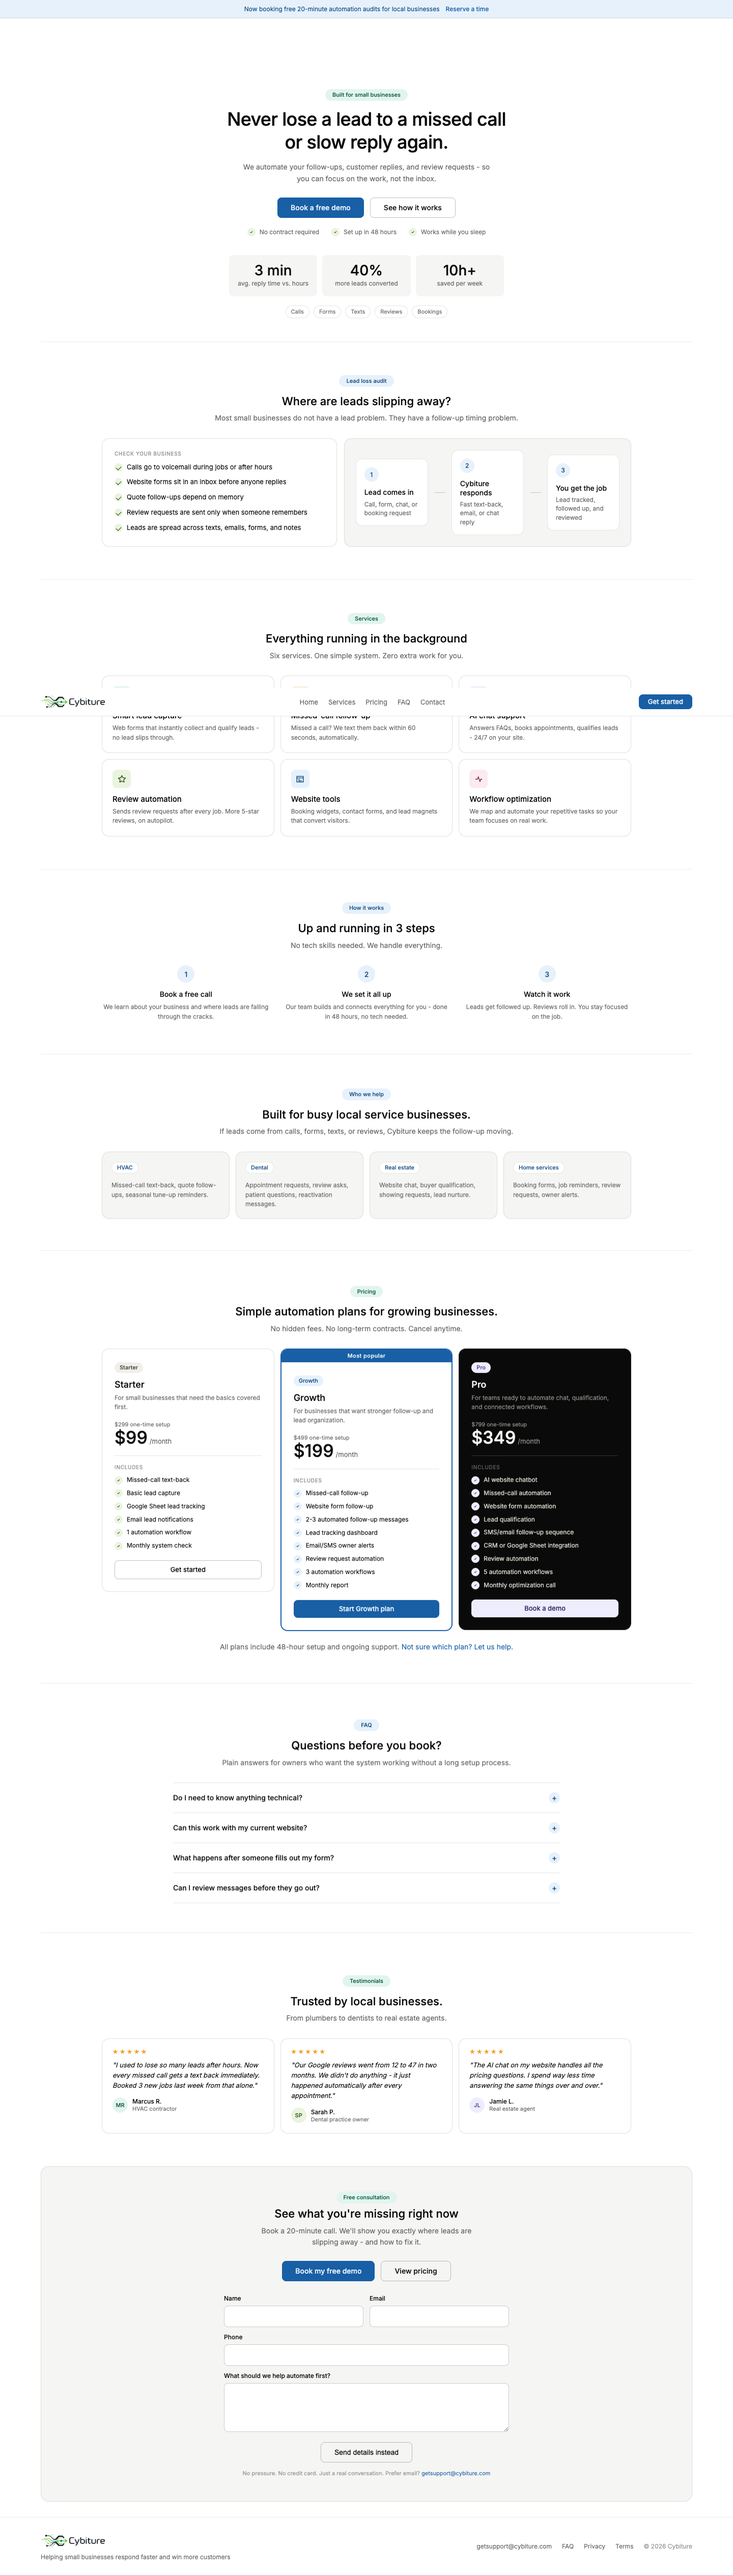
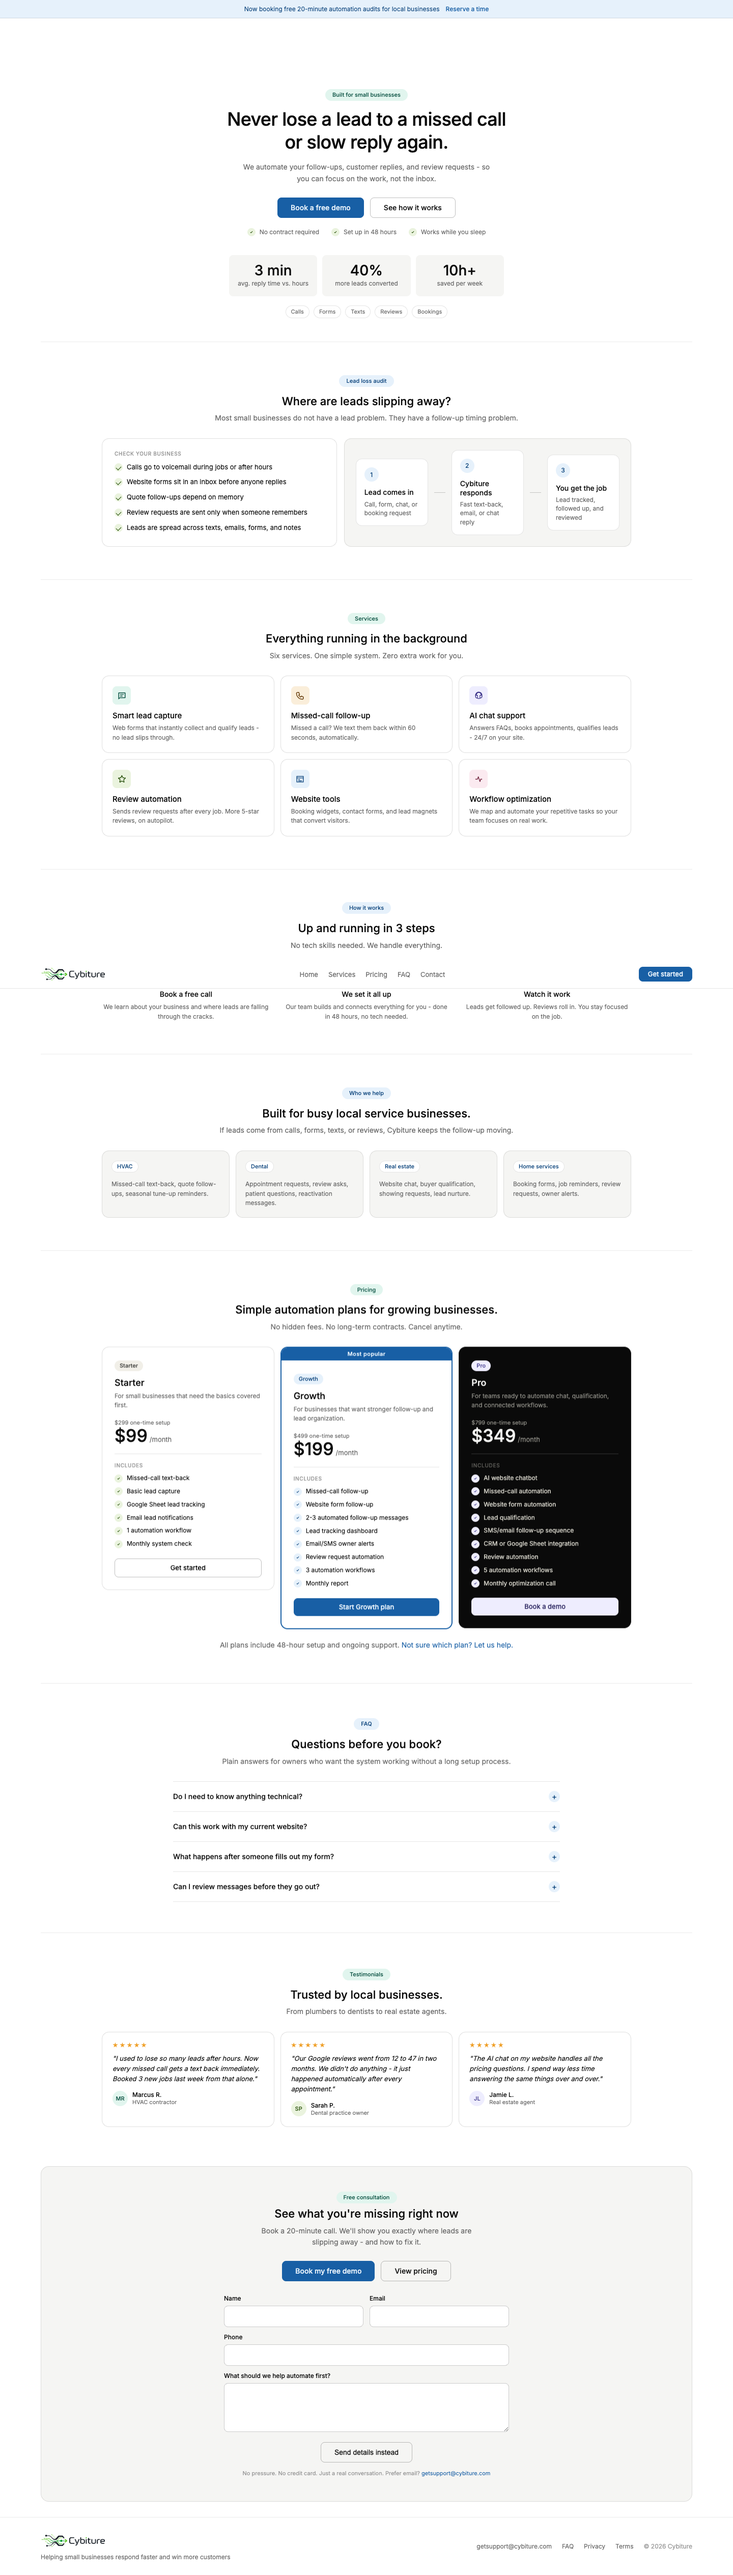
update v3

diff --git a/ai-chat-support.html b/ai-chat-support.html
@@ -9,6 +9,22 @@
     <link rel="stylesheet" href="styles.css" />
       <link rel="icon" type="image/png" href="assets/favicon.png" />
     <link rel="apple-touch-icon" href="assets/favicon.png" />
+      <meta name="google-site-verification" content="50VWgKmeZrNLoH3f2TRV3bXLgcHGHYDisSirxOGul20" />
+    <!-- Google tag (gtag.js) -->
+    <script async src="https://www.googletagmanager.com/gtag/js?id=G-Q48Q4N22XZ"></script>
+    <script>
+      window.dataLayer = window.dataLayer || [];
+      function gtag(){dataLayer.push(arguments);}
+      gtag("js", new Date());
+      gtag("config", "G-Q48Q4N22XZ");
+    </script>
+    <script type="text/javascript">
+      (function(c,l,a,r,i,t,y){
+        c[a]=c[a]||function(){(c[a].q=c[a].q||[]).push(arguments)};
+        t=l.createElement(r);t.async=1;t.src="https://www.clarity.ms/tag/"+i;
+        y=l.getElementsByTagName(r)[0];y.parentNode.insertBefore(t,y);
+      })(window, document, "clarity", "script", "wl59if4qy4");
+    </script>
   </head>
   <body>
     <header class="site-header"><a class="brand" href="/"><img class="brand-logo" src="assets/cybiture-logo-cropped.png" alt="Cybiture" /></a><nav class="site-nav"><a href="/">Home</a><a href="/services.html">Services</a><a href="/pricing.html">Pricing</a><a href="/faq.html">FAQ</a><a href="/contact.html">Contact</a></nav><a class="button nav-cta" href="/contact.html">Get started</a></header>

diff --git a/review-automation.html b/review-automation.html
@@ -9,6 +9,22 @@
     <link rel="stylesheet" href="styles.css" />
       <link rel="icon" type="image/png" href="assets/favicon.png" />
     <link rel="apple-touch-icon" href="assets/favicon.png" />
+      <meta name="google-site-verification" content="50VWgKmeZrNLoH3f2TRV3bXLgcHGHYDisSirxOGul20" />
+    <!-- Google tag (gtag.js) -->
+    <script async src="https://www.googletagmanager.com/gtag/js?id=G-Q48Q4N22XZ"></script>
+    <script>
+      window.dataLayer = window.dataLayer || [];
+      function gtag(){dataLayer.push(arguments);}
+      gtag("js", new Date());
+      gtag("config", "G-Q48Q4N22XZ");
+    </script>
+    <script type="text/javascript">
+      (function(c,l,a,r,i,t,y){
+        c[a]=c[a]||function(){(c[a].q=c[a].q||[]).push(arguments)};
+        t=l.createElement(r);t.async=1;t.src="https://www.clarity.ms/tag/"+i;
+        y=l.getElementsByTagName(r)[0];y.parentNode.insertBefore(t,y);
+      })(window, document, "clarity", "script", "wl59if4qy4");
+    </script>
   </head>
   <body>
     <header class="site-header"><a class="brand" href="/"><img class="brand-logo" src="assets/cybiture-logo-cropped.png" alt="Cybiture" /></a><nav class="site-nav"><a href="/">Home</a><a href="/services.html">Services</a><a href="/pricing.html">Pricing</a><a href="/faq.html">FAQ</a><a href="/contact.html">Contact</a></nav><a class="button nav-cta" href="/contact.html">Get started</a></header>

diff --git a/thank-you.html b/thank-you.html
@@ -19,6 +19,22 @@
     <link rel="stylesheet" href="styles.css" />
       <link rel="icon" type="image/png" href="assets/favicon.png" />
     <link rel="apple-touch-icon" href="assets/favicon.png" />
+      <meta name="google-site-verification" content="50VWgKmeZrNLoH3f2TRV3bXLgcHGHYDisSirxOGul20" />
+    <!-- Google tag (gtag.js) -->
+    <script async src="https://www.googletagmanager.com/gtag/js?id=G-Q48Q4N22XZ"></script>
+    <script>
+      window.dataLayer = window.dataLayer || [];
+      function gtag(){dataLayer.push(arguments);}
+      gtag("js", new Date());
+      gtag("config", "G-Q48Q4N22XZ");
+    </script>
+    <script type="text/javascript">
+      (function(c,l,a,r,i,t,y){
+        c[a]=c[a]||function(){(c[a].q=c[a].q||[]).push(arguments)};
+        t=l.createElement(r);t.async=1;t.src="https://www.clarity.ms/tag/"+i;
+        y=l.getElementsByTagName(r)[0];y.parentNode.insertBefore(t,y);
+      })(window, document, "clarity", "script", "wl59if4qy4");
+    </script>
   </head>
   <body class="thank-you-page">
     <header class="site-header">

diff --git a/index.html b/index.html
@@ -29,6 +29,22 @@
     <link rel="stylesheet" href="styles.css" />
       <link rel="icon" type="image/png" href="assets/favicon.png" />
     <link rel="apple-touch-icon" href="assets/favicon.png" />
+      <meta name="google-site-verification" content="50VWgKmeZrNLoH3f2TRV3bXLgcHGHYDisSirxOGul20" />
+    <!-- Google tag (gtag.js) -->
+    <script async src="https://www.googletagmanager.com/gtag/js?id=G-Q48Q4N22XZ"></script>
+    <script>
+      window.dataLayer = window.dataLayer || [];
+      function gtag(){dataLayer.push(arguments);}
+      gtag("js", new Date());
+      gtag("config", "G-Q48Q4N22XZ");
+    </script>
+    <script type="text/javascript">
+      (function(c,l,a,r,i,t,y){
+        c[a]=c[a]||function(){(c[a].q=c[a].q||[]).push(arguments)};
+        t=l.createElement(r);t.async=1;t.src="https://www.clarity.ms/tag/"+i;
+        y=l.getElementsByTagName(r)[0];y.parentNode.insertBefore(t,y);
+      })(window, document, "clarity", "script", "wl59if4qy4");
+    </script>
   </head>
   <body>
     <div class="announcement-bar">

diff --git a/contact.html b/contact.html
@@ -13,6 +13,22 @@
     <link rel="stylesheet" href="styles.css" />
       <link rel="icon" type="image/png" href="assets/favicon.png" />
     <link rel="apple-touch-icon" href="assets/favicon.png" />
+      <meta name="google-site-verification" content="50VWgKmeZrNLoH3f2TRV3bXLgcHGHYDisSirxOGul20" />
+    <!-- Google tag (gtag.js) -->
+    <script async src="https://www.googletagmanager.com/gtag/js?id=G-Q48Q4N22XZ"></script>
+    <script>
+      window.dataLayer = window.dataLayer || [];
+      function gtag(){dataLayer.push(arguments);}
+      gtag("js", new Date());
+      gtag("config", "G-Q48Q4N22XZ");
+    </script>
+    <script type="text/javascript">
+      (function(c,l,a,r,i,t,y){
+        c[a]=c[a]||function(){(c[a].q=c[a].q||[]).push(arguments)};
+        t=l.createElement(r);t.async=1;t.src="https://www.clarity.ms/tag/"+i;
+        y=l.getElementsByTagName(r)[0];y.parentNode.insertBefore(t,y);
+      })(window, document, "clarity", "script", "wl59if4qy4");
+    </script>
   </head>
   <body>
     <header class="site-header">

diff --git a/missed-call-follow-up.html b/missed-call-follow-up.html
@@ -12,6 +12,22 @@
     <link rel="stylesheet" href="styles.css" />
       <link rel="icon" type="image/png" href="assets/favicon.png" />
     <link rel="apple-touch-icon" href="assets/favicon.png" />
+      <meta name="google-site-verification" content="50VWgKmeZrNLoH3f2TRV3bXLgcHGHYDisSirxOGul20" />
+    <!-- Google tag (gtag.js) -->
+    <script async src="https://www.googletagmanager.com/gtag/js?id=G-Q48Q4N22XZ"></script>
+    <script>
+      window.dataLayer = window.dataLayer || [];
+      function gtag(){dataLayer.push(arguments);}
+      gtag("js", new Date());
+      gtag("config", "G-Q48Q4N22XZ");
+    </script>
+    <script type="text/javascript">
+      (function(c,l,a,r,i,t,y){
+        c[a]=c[a]||function(){(c[a].q=c[a].q||[]).push(arguments)};
+        t=l.createElement(r);t.async=1;t.src="https://www.clarity.ms/tag/"+i;
+        y=l.getElementsByTagName(r)[0];y.parentNode.insertBefore(t,y);
+      })(window, document, "clarity", "script", "wl59if4qy4");
+    </script>
   </head>
   <body>
     <header class="site-header">

diff --git a/pricing.html b/pricing.html
@@ -13,6 +13,22 @@
     <link rel="stylesheet" href="styles.css" />
       <link rel="icon" type="image/png" href="assets/favicon.png" />
     <link rel="apple-touch-icon" href="assets/favicon.png" />
+      <meta name="google-site-verification" content="50VWgKmeZrNLoH3f2TRV3bXLgcHGHYDisSirxOGul20" />
+    <!-- Google tag (gtag.js) -->
+    <script async src="https://www.googletagmanager.com/gtag/js?id=G-Q48Q4N22XZ"></script>
+    <script>
+      window.dataLayer = window.dataLayer || [];
+      function gtag(){dataLayer.push(arguments);}
+      gtag("js", new Date());
+      gtag("config", "G-Q48Q4N22XZ");
+    </script>
+    <script type="text/javascript">
+      (function(c,l,a,r,i,t,y){
+        c[a]=c[a]||function(){(c[a].q=c[a].q||[]).push(arguments)};
+        t=l.createElement(r);t.async=1;t.src="https://www.clarity.ms/tag/"+i;
+        y=l.getElementsByTagName(r)[0];y.parentNode.insertBefore(t,y);
+      })(window, document, "clarity", "script", "wl59if4qy4");
+    </script>
   </head>
   <body>
     <header class="site-header">

diff --git a/privacy.html b/privacy.html
@@ -20,6 +20,22 @@
     <link rel="stylesheet" href="styles.css" />
       <link rel="icon" type="image/png" href="assets/favicon.png" />
     <link rel="apple-touch-icon" href="assets/favicon.png" />
+      <meta name="google-site-verification" content="50VWgKmeZrNLoH3f2TRV3bXLgcHGHYDisSirxOGul20" />
+    <!-- Google tag (gtag.js) -->
+    <script async src="https://www.googletagmanager.com/gtag/js?id=G-Q48Q4N22XZ"></script>
+    <script>
+      window.dataLayer = window.dataLayer || [];
+      function gtag(){dataLayer.push(arguments);}
+      gtag("js", new Date());
+      gtag("config", "G-Q48Q4N22XZ");
+    </script>
+    <script type="text/javascript">
+      (function(c,l,a,r,i,t,y){
+        c[a]=c[a]||function(){(c[a].q=c[a].q||[]).push(arguments)};
+        t=l.createElement(r);t.async=1;t.src="https://www.clarity.ms/tag/"+i;
+        y=l.getElementsByTagName(r)[0];y.parentNode.insertBefore(t,y);
+      })(window, document, "clarity", "script", "wl59if4qy4");
+    </script>
   </head>
   <body>
     <header class="site-header">

diff --git a/services.html b/services.html
@@ -19,6 +19,22 @@
     <link rel="stylesheet" href="styles.css" />
       <link rel="icon" type="image/png" href="assets/favicon.png" />
     <link rel="apple-touch-icon" href="assets/favicon.png" />
+      <meta name="google-site-verification" content="50VWgKmeZrNLoH3f2TRV3bXLgcHGHYDisSirxOGul20" />
+    <!-- Google tag (gtag.js) -->
+    <script async src="https://www.googletagmanager.com/gtag/js?id=G-Q48Q4N22XZ"></script>
+    <script>
+      window.dataLayer = window.dataLayer || [];
+      function gtag(){dataLayer.push(arguments);}
+      gtag("js", new Date());
+      gtag("config", "G-Q48Q4N22XZ");
+    </script>
+    <script type="text/javascript">
+      (function(c,l,a,r,i,t,y){
+        c[a]=c[a]||function(){(c[a].q=c[a].q||[]).push(arguments)};
+        t=l.createElement(r);t.async=1;t.src="https://www.clarity.ms/tag/"+i;
+        y=l.getElementsByTagName(r)[0];y.parentNode.insertBefore(t,y);
+      })(window, document, "clarity", "script", "wl59if4qy4");
+    </script>
   </head>
   <body>
     <header class="site-header">

diff --git a/terms.html b/terms.html
@@ -20,6 +20,22 @@
     <link rel="stylesheet" href="styles.css" />
       <link rel="icon" type="image/png" href="assets/favicon.png" />
     <link rel="apple-touch-icon" href="assets/favicon.png" />
+      <meta name="google-site-verification" content="50VWgKmeZrNLoH3f2TRV3bXLgcHGHYDisSirxOGul20" />
+    <!-- Google tag (gtag.js) -->
+    <script async src="https://www.googletagmanager.com/gtag/js?id=G-Q48Q4N22XZ"></script>
+    <script>
+      window.dataLayer = window.dataLayer || [];
+      function gtag(){dataLayer.push(arguments);}
+      gtag("js", new Date());
+      gtag("config", "G-Q48Q4N22XZ");
+    </script>
+    <script type="text/javascript">
+      (function(c,l,a,r,i,t,y){
+        c[a]=c[a]||function(){(c[a].q=c[a].q||[]).push(arguments)};
+        t=l.createElement(r);t.async=1;t.src="https://www.clarity.ms/tag/"+i;
+        y=l.getElementsByTagName(r)[0];y.parentNode.insertBefore(t,y);
+      })(window, document, "clarity", "script", "wl59if4qy4");
+    </script>
   </head>
   <body>
     <header class="site-header">

diff --git a/faq.html b/faq.html
@@ -12,6 +12,22 @@
     <link rel="icon" type="image/png" href="assets/favicon.png" />
     <link rel="apple-touch-icon" href="assets/favicon.png" />
     <link rel="stylesheet" href="styles.css" />
+      <meta name="google-site-verification" content="50VWgKmeZrNLoH3f2TRV3bXLgcHGHYDisSirxOGul20" />
+    <!-- Google tag (gtag.js) -->
+    <script async src="https://www.googletagmanager.com/gtag/js?id=G-Q48Q4N22XZ"></script>
+    <script>
+      window.dataLayer = window.dataLayer || [];
+      function gtag(){dataLayer.push(arguments);}
+      gtag("js", new Date());
+      gtag("config", "G-Q48Q4N22XZ");
+    </script>
+    <script type="text/javascript">
+      (function(c,l,a,r,i,t,y){
+        c[a]=c[a]||function(){(c[a].q=c[a].q||[]).push(arguments)};
+        t=l.createElement(r);t.async=1;t.src="https://www.clarity.ms/tag/"+i;
+        y=l.getElementsByTagName(r)[0];y.parentNode.insertBefore(t,y);
+      })(window, document, "clarity", "script", "wl59if4qy4");
+    </script>
   </head>
   <body>
     <header class="site-header">
